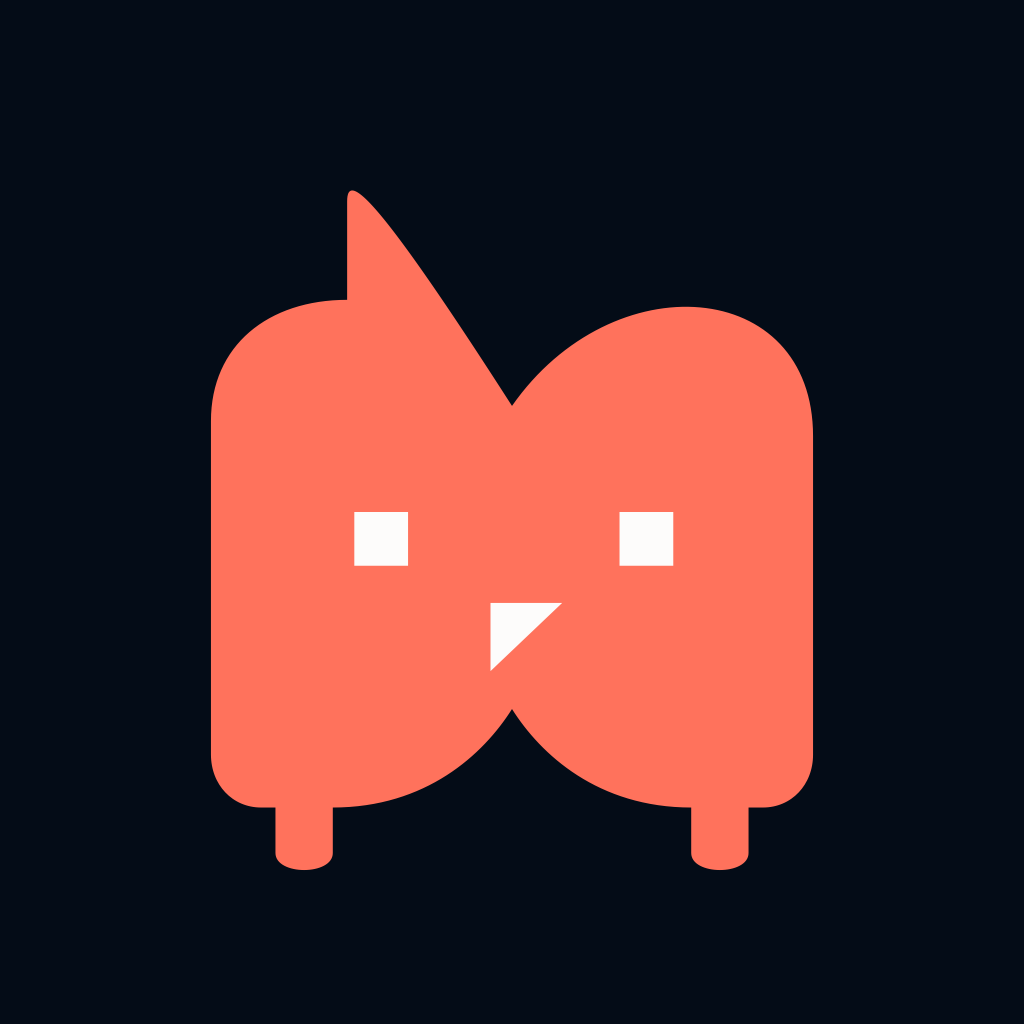
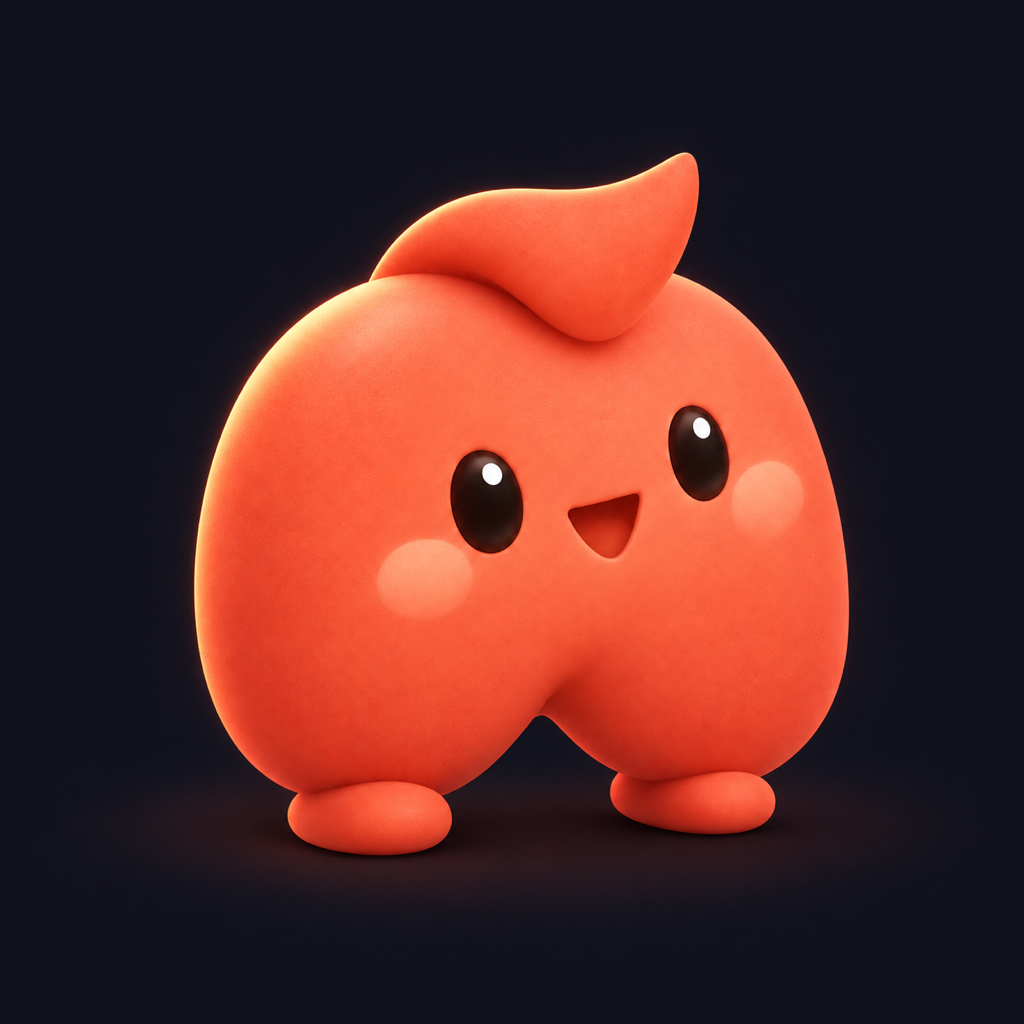
docs: record the launcher artwork and three design notes
The approved Pocket Muqun launcher masters replace the light/dark icons and the
favicon; brand-assets.md states which consumer reads each file and that a custom
theme never renames the installed application or changes its package identity.

The other three notes are the written form of work already under way: in-app
notifications, machine and session switching, and the custom theme pack design.

diff --git a/docs/custom-theme-design.md b/docs/custom-theme-design.md
@@ -1,0 +1,215 @@
+# Custom themes and the agent authoring protocol
+
+Status: architecture proposal and implementation in progress, September 9, 2026. This feature belongs in its own PR, separate from machine switching. This document describes intended behavior, not completed device validation.
+
+## Product contract
+
+Make Muqun feel personal without turning Settings into a configuration editor.
+
+- Keep one entry: Settings > Appearance > Themes, with built-in themes, personal themes, import, and agent-assisted creation
+- Every pack contains complete light and dark variants; applying a pack preserves the user's system/light/dark preference
+- Themes contain data, optional artwork, and home identity, never executable plugins or navigation changes
+- Built-in themes remain image-free; absent artwork preserves the existing color-only presentation
+- Home name and logo independently support default, custom, or hidden; hidden elements and their spacing disappear
+- Home identity affects the expanded and collapsed home titles only, not the installed app name, launcher icon, splash screen, notifications, or About
+- Files, links, and agent output open a preview; nothing automatically activates a theme
+- Keep the ordinary path short: choose, preview, apply; expose advanced settings one module at a time
+
+Use personality on the shell and home screen while keeping content and actions legible. Preserve current fonts, spacing, and interaction semantics. Cute comic themes may use pastel paper, hand-drawn edges, and restrained halftones; more dramatic themes may use dark materials and luminous edge details. Neither may compromise terminal readability.
+
+## Existing integration points
+
+| Existing module                           | Responsibility                                                                                     |
+| ----------------------------------------- | -------------------------------------------------------------------------------------------------- |
+| `src/constants/theme-packs.ts`            | Preserve built-in registry and the existing 17 UI colors, terminal tokens, and light/dark contract |
+| `src/hooks/use-theme-pack.ts`             | Feed built-in and imported colors through the same providers and terminal palette path             |
+| `src/stores/app-settings.ts`              | Store theme selection, not large manifests or image bytes in SecureStore                           |
+| `src/components/settings-theme-sheet.tsx` | Theme library and previews using representative components, not a live terminal per tile           |
+| `src/lib/quick-commands.ts`               | Versioned built-in agent skill, compatible with existing commands and hide/restore behavior        |
+| `src/app/commands.tsx`                    | Compose a skill draft with optional attachments rather than pasting immediately into a shell       |
+| `src/app/(drawer)/index.tsx`              | One home identity configuration for expanded and collapsed headers                                 |
+| `src/app/_layout.tsx`                     | Update theme providers atomically and audit navigation backgrounds for default-color leaks         |
+
+Use `src/theme/` for schema, compilation, repository, assets, import/export, and agent instruction assembly. Components consume validated, stable resolved values; components do not parse manifests or fetch author URLs independently.
+
+Import entry > bounded download/unpack > schema validation > local assets > compilation > isolated preview > confirmation > atomic activation.
+
+## Component architecture
+
+The data layer validates and resolves themes. Shared surface, button, navigation, card, and composer components apply semantic colors and optional decoration slots. Screens only compose these components and define their layout.
+
+A theme change updates shared components consistently. Primary, destructive, disabled, selected, and focused states remain distinct. Artwork never replaces the meaning of an action. Missing artwork adds no empty wrappers.
+
+Changing appearance must not recreate terminal sessions, connections, current navigation, scroll position, or unsent drafts.
+
+## Theme library and preview
+
+Show the current theme and color-mode preference above personal and built-in collections. Import and Create are library actions, not repeated controls on every tile.
+
+Import offers a system file picker, an explicitly pasted public link, or pasted JSON. Do not read the clipboard automatically.
+
+Preview Home, Terminal, and Settings with representative components and fictional data. Include light/dark switching and a master decorations toggle. Keep Apply theme visible, with Save to my themes secondary. Preview does not change global state or connect to user machines.
+
+Applying stays on the current screen and offers Undo. Keep Restore built-in theme accessible through reliable built-in styling. Preserve the last valid installation; corrupted startup data falls back safely.
+
+Editing defaults to Save as my version rather than overwriting an upstream or built-in pack. Support resetting a module or all customization.
+
+## Phone and iPad
+
+- Respond to available width, not a device-name check; narrow split views use the phone layout
+- Wide windows use a roughly 280–320 pt library column with preview/editor beside it and a content maximum around 1200 pt; validate final breakpoints with large text
+- Switch editing modules within the same surface instead of pushing nested pages; preserve unsent authoring drafts
+- Render a shell background once per window; do not duplicate a full wallpaper for every terminal pane
+- Rotation and resizing change cropping, not stored configuration, downloads, or drafts
+
+## Decoration slots
+
+| Slot                         | Customization                | Fallback                  | Constraint                                                |
+| ---------------------------- | ---------------------------- | ------------------------- | --------------------------------------------------------- |
+| `shell.background`           | App-wide paper or wallpaper  | Background color          | Behind app content, never system permission dialogs       |
+| `home.background`            | Home-specific background     | Shell background          | Allow explicit inheritance removal                        |
+| Home logo                    | Transparent identity artwork | Built-in logo             | Contain without cropping; independently hideable          |
+| `home.decoration`            | Edge illustration or sticker | None                      | No hit testing or overlap with machine actions            |
+| `navigation.background`      | Header/sidebar material      | Current surface color     | Preserve readable icons and titles                        |
+| `tabs.background`            | Session tab container        | Current surface color     | Preserve selection, focus, and unread states              |
+| `composer.background`        | Input area's outer shell     | Current surface color     | Keep text input on a controlled fill                      |
+| `actions.background`         | Quick-action container       | Current surface color     | Preserve key order and hit targets                        |
+| `buttons.primary.background` | Primary button texture       | Primary color             | Preserve text and interaction states                      |
+| `cards.decoration`           | Small corner pattern         | None                      | Reuse bounded, small decoded resources                    |
+| `emptyState.illustration`    | Empty-state artwork          | Existing empty state      | Preserve explanation and action                           |
+| Terminal wallpaper, later    | Terminal interior            | Terminal background color | Separate renderer/performance gate; not in initial schema |
+
+V1 does not replace semantic back, close, send, delete, connection, or permission glyphs. Icons follow colors; their surrounding surfaces may be decorated. Future noncritical icon sets must be explicitly bounded.
+
+Native pickers, keyboards, permission prompts, and system glass are not arbitrary image surfaces. Verify existing blur/glass composition instead of making every layer transparent.
+
+Slot controls are bounded: asset reference, cover/contain/tile, normalized focal point, opacity, and compact/regular overrides. Additional masks, anchors, or sizing controls require schema and renderer support together. No arbitrary coordinates, z-index, negative margins, scripts, HTML, CSS, or remote fonts.
+
+Missing backgrounds fall back to colors. Missing custom logos fall back to the built-in mark unless explicitly hidden. Missing decorative images disappear without broken-image placeholders or layout gaps.
+
+## Muqun Theme v1
+
+Use one logical format with two transport forms:
+
+- `.muqun-theme.json`: readable manifest for agents, copying, and public raw links
+- `.muqun-theme`: ZIP with root `theme.json` and `assets/`, for self-contained offline sharing
+
+Only declared static assets belong in a package. No executable installation content.
+
+| Field                             | Meaning                                                                                  |
+| --------------------------------- | ---------------------------------------------------------------------------------------- |
+| `format`                          | Literal `muqun-theme`                                                                    |
+| `schemaVersion`                   | Integer 1; reject unsupported versions before preview                                    |
+| `id`, `name`, `version`           | Author-provided metadata, not a trusted installation identity                            |
+| `author`, `license`, `source`     | Optional attribution; never execute or automatically synchronize source                  |
+| `variants.light`, `variants.dark` | Complete UI and terminal colors; no mutable upstream base-theme dependency               |
+| `assets`                          | Bounded asset IDs mapping to package paths or public HTTPS URLs, optionally with SHA-256 |
+| `decoration`                      | Shared optional slot configuration                                                       |
+| `variantDecorations.light/dark`   | Mode-specific overrides; absent inherits, null removes                                   |
+| `homeIdentity`                    | Independent default/custom/hidden name and logo                                          |
+
+UI colors: background, surface, surfaceRaised, border, borderStrong, text, textMuted, textSubtle, textDisabled, primary, onPrimary, primarySubtle, danger, dangerSubtle, success, warning, info.
+
+Terminal fields: background, foreground, cursor, link, selection, ansi. ANSI contains exactly 16 colors, normal 0–7 then bright 8–15.
+
+External colors use `#RRGGBB` or explicitly permitted `#RRGGBBAA`. Main text and surfaces must be opaque. Only designated subtle/selection roles permit alpha. Compile into the existing internal color contract.
+
+Home name example: `{ "mode": "custom", "text": "Mochi Lab" }`. Hidden logo example: `{ "mode": "hidden" }`. Names are bounded plain text. Hiding both removes the brand block, related spacing, and brand introduction, while retaining Settings and pairing actions. The collapsed home header follows the same rules. Do not add a branding area to an iPad workspace.
+
+Precedence: color base > shared slot > mode override > width override > user decoration opt-out and readability protection. Undefined inherits; null explicitly removes an image.
+
+Allocate a local installation ID and content hash. An untrusted manifest ID never overwrites another installation silently. Offer previewed update or Save a copy for duplicate author IDs.
+
+## Remote assets and offline ownership
+
+Support GitHub raw files, Release attachments, and other public HTTPS downloads. If a GitHub page returns HTML, explain that a raw/download link is required. Only normalize explicitly supported and tested URL forms.
+
+Show source and resource domains before fetching images. Use an independent unauthenticated downloader, never Gateway authorization, cookies, SSH credentials, or terminal context.
+
+V1 accepts only public HTTPS destinations. Reject URL credentials, localhost, private/link-local/reserved addresses, and other schemes; revalidate redirects. Constrain actual connection destinations, not merely URL strings, to address DNS rebinding. If Expo's JS transport cannot enforce this, implement the required native adapter rather than turning Gateway into an arbitrary URL proxy. This remains a release gate.
+
+Download and validate enabled assets into app-owned persistent storage, named by content hash. Render local resources only. An author's later changes or deletion cannot change an installed theme, and app startup must not contact the author's server.
+
+On download failure offer retry or explicit colors-only import as a separate stripped copy. Missing package files, hash mismatches, and malformed data reject the package rather than silently producing a partial success.
+
+Initial limits: 256 KiB manifest, 32 assets, 8 MiB per asset, 25 MiB compressed package, 50 MiB expanded package, and 16 MP per image. Enforce streaming byte limits, cancellation, timeouts, and bounded concurrency. Refine decoded-memory budgets using low-memory Android and iPad multiwindow measurements.
+
+V1 supports static PNG, JPEG, and WebP only. Verify actual type and dimensions. Reject animated images, SVG, video, remote fonts, path traversal, absolute paths, symlinks, duplicate normalized paths, nested archives, and undeclared files during extraction.
+
+Default export is an offline package using installed validated bytes, without downloading again. Include only theme data and approved artwork, never machine lists, chat, reference-only images, local machine paths, or pairing data. Also offer color-only JSON export and removal of optional source links containing query parameters.
+
+## Built-in English authoring skill
+
+The built-in command is `Create a Muqun theme`. Its versioned English instruction is bundled with the app, not downloaded from theme authors or translated into locale catalogs. Derive its format reference from the same schema as the parser and include a complete valid light/dark template.
+
+Tapping opens the existing composer with a collapsible Theme creator instruction attachment, optional requirements, and optional pictures. Avoid a full-screen wall of English instructions.
+
+Each image is marked Reference colors only by default, or Also use as artwork. Optional artwork roles are background, logo, or decoration. Show the target machine/agent and explain image disclosure before sending. Never attach unrelated photos or pairing information.
+
+Settings can inspect, hide, and restore the command but cannot execute without a target. Ordinary shell mode has no executable entry. From Themes, ask the user to select an active agent.
+
+Validate fresh server/session/pane/agent instance and supported transport both when composing and sending. If the agent exits, changes identity, is busy, or is awaiting trust/permission, preserve the draft rather than falling back to raw shell input. Never automatically retry ambiguous task delivery.
+
+Image support depends on the actual agent/transport. A filesystem path alone is not evidence that the model saw an image. Text-only creation remains available.
+
+The instruction requires:
+
+1. Complete light/dark UI and terminal colors with readable text and meaningful status colors
+2. Reference-only images stay out of the pack; approved artwork uses request-scoped IDs mapped only to authorized attachments, never arbitrary returned device paths
+3. Without image capability, return a complete color theme and explain limitations; never invent asset URLs
+4. Prefer writing `<slug>.muqun-theme.json` in an authorized workspace, validating it when tooling is available, and returning a clickable path; without file tools, return one complete `muqun-theme` fenced JSON block
+5. Do not change app code, install dependencies, publish releases, push commits, or upload private images as a side effect of authoring
+
+## Returned theme previews
+
+Recognized theme files get an explicit theme preview action through the existing file-link parser. Preserve ordinary URL boundaries and Gateway workspace restrictions. For inaccessible files, offer pasted JSON or a public URL.
+
+Complete fenced blocks in structured agent output can become candidate cards with the name, light/dark preview, image count, and Preview theme. Do not repeatedly scan the full moving ANSI screen with a large JSON regex. Prefer file links in raw terminals and explicit JSON paste when no reliable complete output is available.
+
+Every candidate passes the same import checks. Recognition is not trust, and hashes are not author signatures. Display multiple candidates individually.
+
+## Runtime safety and recovery
+
+- Compile immutable resolved themes once per installed content hash; output updates must not reparse themes or decode images
+- Use the same color-consumer contract for built-in and imported themes; isolate decorations in shared slot components
+- Persist installed assets separately from disposable thumbnails; reference-count deletion across packs
+- Stage imports separately; cancellation cleans only its own staging data, and activation happens only after durable installation
+- Isolate preview providers from global state and preserve live app state on apply
+- Decorative layers never intercept touch or accessibility focus; the app owns state feedback and dangerous-action semantics
+- Keep text on controlled surfaces; a weak overlay does not guarantee readability over arbitrary images
+- Audit critical text/button/terminal pairs and provide a repair preview; do not activate unreadable critical combinations
+- Respect system reduced-motion and enhanced-contrast preferences; keep a reliably readable recovery control
+
+## Gateway boundary
+
+Theme format, public-link import, local application, and export do not need a dedicated Gateway service.
+
+Agent authoring reuses task/attachment transport but requires atomic instance-bound submission. If the current backend only checks then sends, add the necessary Gateway capability to close the agent-exit race. Older Gateways still support theme import/application; never downgrade the skill into shell input.
+
+Detect capabilities rather than guessing Herdr versions. Do not expand Files workspace access or add arbitrary path/URL proxying.
+
+## Delivery order and verification
+
+Use one independent feature branch/PR with testable commits:
+
+1. Schema, complete examples, compatibility migration, pure compiler, and unchanged built-in snapshots
+2. Local/remote import, limits, extraction defenses, persistence, isolated preview, apply/undo, offline export/reimport
+3. Shared shell/home/navigation/composer slots and responsive library/editor
+4. Built-in skill draft, image roles, instance-bound submission, returned-file/structured-output preview
+5. Separate terminal-wallpaper performance and ANSI-background compatibility experiment; do not expose the slot unless it passes
+
+Required coverage:
+
+- Missing variants/tokens, invalid ANSI length, unsupported fields, oversize payloads, path traversal, redirects to private addresses, corrupt images, duplicate IDs, and hash mismatch
+- Image-free baseline, all home name/logo visibility combinations, collapsed header, long names, and large text without phantom spacing
+- Mode changes, rotation/split view, offline cold start, broken sources, cancellation/process exit, undo, and export/reimport fidelity
+- Exited/replaced/busy agents, trust prompts, shells, old Gateways, and unsupported attachments never receive skill text as shell input
+- Real isolated agent sees approved references, produces a valid file, and the app previews/applies/exports/reimports it
+- Full agent-device E2E on Android/iOS and real iPad wide/narrow screenshots, never using user pairings, links, or private photos
+- Measure apply latency, scrolling/output responsiveness, and peak decoded memory against the same-device color-only baseline
+
+Before opening a PR, run repository gates in order: typecheck, lint, formatting, unit tests, full E2E. Distinguish real-device evidence from mocks. Ship protocol documentation, English skill, valid examples, and tests together.
+
+## References
+
+Expo SDK 57 [Image documentation](https://docs.expo.dev/versions/v57.0.0/sdk/image/) supports reusing expo-image cropping and caching, but installed theme assets need repository-owned persistent storage. Download destination enforcement and archive implementation still require verification; this plan does not claim existing APIs are sufficient.

diff --git a/docs/in-app-notifications.md b/docs/in-app-notifications.md
@@ -1,0 +1,86 @@
+# In-app notifications
+
+## Scope
+
+Foreground Expo push notifications use a themed in-app banner instead of an OS
+banner. This is a presentation layer for existing push delivery, not a new local
+event bus, notification inbox, or proof that an agent finished its task. It does
+not introduce a Gateway polling loop or change push registration requirements.
+
+`src/lib/in-app-notifications.ts` owns pure queue, conversion, and presentation
+rules. The Zustand store keeps the queue in memory. `InAppNotificationHost` renders
+the first notice inside `AppLockGate`; `src/lib/notifications.ts` connects the Expo
+notification handler to that store.
+
+## Interaction
+
+- New events wait behind the currently visible notice instead of replacing it
+- Open navigates only after an explicit press, then dismisses the notice
+- Close dismisses without navigating or answering an agent approval
+- Notices without a destination have no Open action
+- The pending count includes the currently visible notice
+- There is no automatic dismissal timer, task progress percentage, or automatic
+  terminal navigation
+- The card uses existing color tokens, a top safe area, 44-point action targets,
+  and a maximum width of 480 points for larger displays
+
+The title is limited to two visible lines and the body to four. The body is
+selectable; the notice is not a full transcript viewer. Opening the destination
+is the way to inspect the relevant workspace.
+
+## Content and bounded storage
+
+Push conversion requires a nonempty receipt identifier of at most 512 code units
+and at least one readable text field. Server text sanitization removes control
+and invisible formatting characters. Titles become one line and are limited to
+120 Unicode code points; bodies retain line breaks and are limited to 320.
+Notification text is plain text, not executable markup.
+
+The queue contains at most 20 notices. When full, the visible notice stays in
+place, the oldest waiting notice is dropped, and the newest notice is appended.
+The last 200 receipt identifiers suppress duplicate callbacks, including after
+dismissal. Deduplication is bounded rather than permanent: sufficiently old
+identifiers can be accepted again. Neither bodies nor receipt history is written
+to persistent storage. Disabling notifications clears pending notices while
+retaining this bounded, in-memory receipt history.
+
+Server/session/pane destinations reuse `notificationRoute` and remain structured
+router parameters. Without a server destination, only its existing internal-route
+fallback is accepted. This layer does not introduce arbitrary external URL actions
+or automatic approval responses.
+
+## Lifecycle and lock boundary
+
+When notifications are enabled and the app is active, the handler queues the
+notice and suppresses system banner/list presentation. When inactive or in the
+background, its presentation policy delegates banner/list visibility to the OS
+instead. Actual background push delivery is still platform-controlled. The
+handler requests neither sound nor a badge; existing receipt feedback behavior is
+separate and unchanged.
+
+The host renders nothing while inactive. Previously queued notices are retained
+in memory and can reappear after returning to the foreground; there is no expiry
+or background reconciliation. The host is unmounted while `AppLockGate` displays
+the lock screen, so its own text and buttons are not available behind that gate.
+Notifications received during a locked foreground session may remain queued until
+unlocking.
+
+Existing OS notification response handling is outside `AppLockGate`. Its approval
+actions and deep-link callbacks are not made lock-aware by this banner change.
+Do not describe the new host as a security gate for all notification actions.
+
+## Verification boundaries
+
+Pure tests cover queue order and overflow, immutable updates, bounded duplicate
+history, dismissal, malformed content, Unicode limits, route conversion, and the
+foreground/background presentation matrix.
+
+Native checks are still required for foreground receipt, no duplicate OS banner,
+explicit Open/Close behavior, keyboard overlap, accessibility announcements,
+rotation and iPad sizing, background/resume, app lock/unlock, and disabled settings.
+A root React Native sibling with a high z-index does not establish visibility
+above native iOS modal or form-sheet presentations. Verify those routes on device
+before claiming app-wide modal coverage; preserve the queue if a modal covers it.
+
+The required full `agent-device` suite remains the feature gate. Pure tests do not
+prove Expo delivery, native layering, or real paired Gateway-to-agent behavior.

diff --git a/docs/brand-assets.md b/docs/brand-assets.md
@@ -1,0 +1,41 @@
+# Pocket Muqun brand assets
+
+The approved September 9, 2026 Pocket Muqun artwork replaces the launcher
+light/dark masters. These are brand assets, not user-customizable theme assets.
+Custom theme home identity must not rename the installed application or change
+its package identity.
+
+## Asset mapping
+
+| Asset                         | Consumer                         | Requirements           |
+| ----------------------------- | -------------------------------- | ---------------------- |
+| `assets/images/icon.png`      | Expo fallback and iOS light icon | 1024 × 1024 opaque PNG |
+| `assets/images/icon-dark.png` | iOS dark icon                    | 1024 × 1024 opaque PNG |
+| `assets/images/favicon.png`   | Web favicon                      | 64 × 64 PNG            |
+
+The existing Expo configuration already references these paths. Preserve
+`dev.osuki.muqun`, the Expo project, and signing credentials. Native launcher
+changes require a new native build; a Metro reload does not validate them.
+
+## Adaptation still pending
+
+Android adaptive foreground, Android monochrome, splash, and in-app loading
+marks still use the previous artwork. Do not mark the brand migration complete
+until these are replaced and visually checked on devices. In particular:
+
+- A painted checkerboard is not transparency. Inspect the actual alpha channel
+  before accepting generated cutouts.
+- Keep the entire mascot, including crest and feet, inside adaptive-icon safe
+  bounds and inspect round and rounded-square launcher masks.
+- Monochrome artwork needs a readable silhouette and facial negative space;
+  do not use a full opaque rectangle as its mask.
+- Check splash and loading marks against both light and dark surfaces.
+- Check light/dark iOS launcher appearance and iPad sizes in a native build.
+
+The imagegen transparent-cutout attempts were rejected because their output had
+no alpha channel. Neither rejected image is included in the application.
+
+Source masters remain in the Desktop `Muqun-Pocket-Logo-2026-09-09` handoff
+folder. The repository copies above are self-contained build inputs and do not
+depend on that Desktop path. Store compliance still requires normal release
+review; asset dimensions alone do not guarantee approval.

diff --git a/docs/machine-session-switcher.md b/docs/machine-session-switcher.md
@@ -1,0 +1,29 @@
+# Machine and session switching
+
+The terminal header has one entry for paired machines and their live backend
+sessions. One paired machine with zero or one live session has no switch
+button; adding and managing machines remains available through existing Home
+and Settings surfaces
+
+The sheet groups sessions beneath machine names. It does not poll every saved
+machine: tapping another machine loads its sessions through that record's own
+encrypted transport or SSH tunnel, leaving the current terminal selected until
+the request succeeds. A first visit with multiple sessions asks for a choice;
+a returning visit can open the remembered session directly
+
+Closing while a session request is pending discards its result. Failed reads
+stay in the sheet with an inline retry message. Session IDs and remembered pane
+IDs are scoped to the gateway, never shared across machines. Session preference
+is persisted; pane return locations are kept for the current App launch
+
+New gateways expose `connected` on `/api/sessions`. Older gateways are supported
+using their per-session `/health` data. Stopped backends remain configured but
+are not offered as switch targets. A reachable backend with no panes is still
+a valid target. All-stopped configurations retain a configured session for the
+existing unavailable-backend presentation rather than inventing a session ID
+
+Saved Herdr SSH machines are not automatically imported: that requires remote
+routing support in the gateway, not just a Herdr version check
+
+Validation uses fake session responses and the isolated offline demo, never
+the user's pairing credentials or terminal URLs
